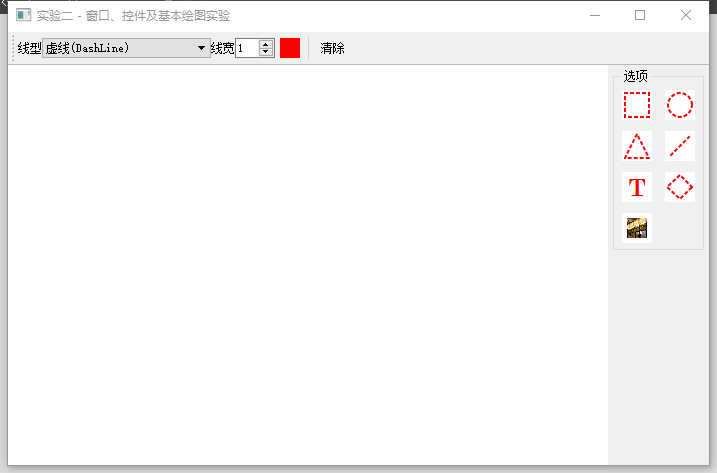
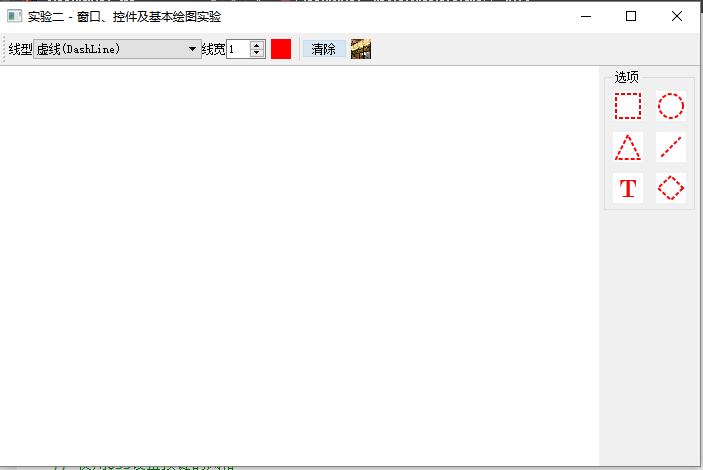
第四次提交，修改程序功能，使得绘制的图片可以显示在界面中央并且能够自适应窗口大小。

diff --git a/lab02/centerframe.cpp b/lab02/centerframe.cpp
@@ -6,7 +6,7 @@
 #include <QPushButton>
 #include <QPainter>
 #include <QPixmap>
-#include <QGridLayout>
+#include <QGridLayout>         //网格布局
 #include <QLineEdit>
 #include <QDebug>
 #include <QDialog>
@@ -107,7 +107,6 @@ void CenterFrame::createUserCommandArea()
     btnDiamond->setIconSize(p.size());
     p.fill(BACKGROUND_COLOR);
     //菱形的四个顶点
-    //p.fill(FOREGROUND_COLOR);
     QPointF pt4(p.size().width()/2,3);
     QPointF pt5(2,p.size().height()/2);
     QPointF pt6(p.size().width()/2,p.size().height()-3);
@@ -138,20 +137,6 @@ void CenterFrame::createUserCommandArea()
     connect(btnText,&QPushButton::clicked,
             this,&CenterFrame::on_btnTextClicked);
 
-    //图片按钮
-    p.fill (BACKGROUND_COLOR);
-    imgBtn=new QPushButton(group);
-    imgBtn->setToolTip("绘制图片");
-    imgBtn->setCheckable(true);
-    imgBtn->setIconSize(p.size());
-    QImage image(":/user");
-    QRect targetRect(0,0,p.size().width(),p.size().height());
-    QRect sourceRect=image.rect();
-    painter.drawImage(targetRect,image,sourceRect);
-
-    imgBtn->setIcon (QIcon(p));
-    connect(imgBtn,&QPushButton::clicked,this, &CenterFrame::on_btnchoseimageClicked);
-
     // 选项Group布局
     QGridLayout *gridLayout = new QGridLayout();
     gridLayout->addWidget(btnRect,0,0);
@@ -160,7 +145,6 @@ void CenterFrame::createUserCommandArea()
     gridLayout->addWidget(btnLine,1,1);
     gridLayout->addWidget(btnText,2,0);
     gridLayout->addWidget(btnDiamond,2,1);
-    gridLayout->addWidget(imgBtn,3,0);
     gridLayout->setMargin(3);
     gridLayout->setSpacing(3);
     group->setLayout(gridLayout);
@@ -236,7 +220,6 @@ void CenterFrame::updateButtonStatus()
     btnDiamond->setChecked(false);
     btnText->setChecked(false);
     edtText->setVisible(false);
-    imgBtn->setChecked(false);
 
     // 然后根据设置的绘图类型重新切换按键状态
     switch (drawWidget->shapeType()) {
@@ -260,19 +243,12 @@ void CenterFrame::updateButtonStatus()
         edtText->setVisible(true);      // 使编辑框可见
         edtText->setFocus();            // 编辑框获得输入焦点
         break;
-    case ST::picture:
-        imgBtn->setChecked(true);
-        break;
     default:
         break;
     }
 }
 
 
-//void CenterFrame::photoset()
-//{
-//   drawWidget->photo();
-//}
 
 void CenterFrame::setPenStyle(int penStyle)
 {
@@ -305,8 +281,6 @@ void CenterFrame::on_btnRectClicked()
     }
 
 }
-
-
 void CenterFrame::on_btnEllipseClicked()
 {
     if(btnEllipse->isChecked()){
@@ -326,8 +300,6 @@ void CenterFrame::on_btnLineClicked()
         drawWidget->setShapeType(ST::None);
     }
 }
-
-
 void CenterFrame::on_btnTriangleClicked()
 {
     if(btnTriangle->isChecked()){
@@ -337,7 +309,6 @@ void CenterFrame::on_btnTriangleClicked()
         drawWidget->setShapeType(ST::None);
     }
 }
-
 void CenterFrame::on_btnTextClicked()
 {
 
@@ -361,16 +332,7 @@ void CenterFrame::on_btnDiamondClicked()
     else
         drawWidget->setShapeType(ST::None);
 }
-void CenterFrame::on_btnchoseimageClicked()
+void CenterFrame::showimage()
  {
-      if(imgBtn->isChecked())
-          {
-              drawWidget->setShapeType(ST::picture);
-              drawWidget->choseimage();
-              updateButtonStatus();
-          }
-          else
-          {
-              drawWidget->setShapeType(ST::None);
-          }
+        drawWidget->choseimage();
  }

diff --git a/lab02/drawwidget.cpp b/lab02/drawwidget.cpp
@@ -15,6 +15,9 @@ DrawWidget::DrawWidget(QWidget *parent) : QWidget(parent)
     pix = new QPixmap(size());      //此QPixmap对象用来准备随时接受绘制的内容
     pix->fill (BACKGROUND_COLOR);          //填充背景色为白色
     setMinimumSize (600, 400);      //设置绘制区窗体的最小尺寸
+    pic=new QPixmap(size());
+    pic->fill(Qt::transparent);
+    pic->load(filename);
 
 }
 
@@ -22,6 +25,7 @@ DrawWidget::~DrawWidget()
 {
     // 注意：一定要删除pix指针
     delete pix;
+    delete pic;
 }
 
 void DrawWidget::setStyle (int s)
@@ -48,7 +52,6 @@ void DrawWidget::mousePressEvent (QMouseEvent *e)
         canDraw = true;
     }
 }
-
 void DrawWidget::mouseMoveEvent (QMouseEvent *e)
 {
 
@@ -71,8 +74,6 @@ void DrawWidget::mouseMoveEvent (QMouseEvent *e)
         }
     }
 }
-
-
 void DrawWidget::mouseReleaseEvent(QMouseEvent *e)
 {
     if (e->button() == Qt::LeftButton){
@@ -90,7 +91,11 @@ void DrawWidget::mouseReleaseEvent(QMouseEvent *e)
 void DrawWidget::paintEvent (QPaintEvent *)
 {
     QPainter painter(this);
-    painter.drawPixmap (QPoint(0, 0), *pix);
+    QRect imgrect=QRect(this->width()/4,this->height()/4,this->width()/2,this->height()/2);
+    QImage pic1=pix->toImage();
+    QImage pic2=pic->toImage();
+    painter.drawImage(0,0,pic1);
+    painter.drawImage(imgrect, pic2);
 }
 
 
@@ -119,26 +124,8 @@ void DrawWidget::clear ()
 //选择图片
 void DrawWidget::choseimage()
 {
-    QString filename =QFileDialog::getOpenFileName( this,tr("选择图片文件"), "/user","Images (*.png *.xpm *.jpg)");   //文件只显示.png .xpm .jpg格式
-       if(filename.isEmpty())
-               return;
-       else
-       {
-           QImage img;
-           if(!(img.load(filename))) //加载图像
-           {
-               QMessageBox::information(this, tr("打开图像失败"),tr("打开图像失败!"));
-               return;
-           }
-       }
-       pix->load(filename);
-       QPixmap *newP = new QPixmap(size());
-       newP->fill (BACKGROUND_COLOR);
-       QPainter p(newP);
-       p.drawPixmap (QPoint((width()-pix->width())/2,(height()-pix->width())/2), *pix);
-       delete pix;
-       pix = newP;
-       update();
+    filename=QFileDialog::getOpenFileName( this,tr("选择图片文件"), "/user","Images (*.png *.xpm *.jpg)");   //文件只显示.png .xpm .jpg格式
+    pic->load(filename);
 }
 
 void DrawWidget::setShapeType(ST::ShapeType type)
@@ -234,6 +221,7 @@ void DrawWidget::drawShape(const QPointF ptStart,const QPointF ptEnd,const ST::S
     // 抗锯齿必须在painter激活后，也就是绘制对象确定后设置
     painter.setRenderHint(QPainter::Antialiasing);
     painter.setPen (pen);
+    /**************************绘图工作*************************************/
     switch (drawType) {
     case ST::Rectangle:
         painter.drawRect(QRectF(ptStart,ptEnd));

diff --git a/lab02/mainwindow.cpp b/lab02/mainwindow.cpp
@@ -23,7 +23,7 @@ MainWindow::MainWindow(QWidget *parent)
      setWindowTitle(tr("实验二 - 窗口、控件及基本绘图实验 "));
      penStyleChangged(styleComboBox->currentData().toInt());      //初始化线型，设置控件中当前值作为初始值
      centerFrame->setPenWidth (widthSpinBox->value ());  //设置初始线宽
-      centerFrame->setPenColor (Qt::red); //设置初始颜色
+     centerFrame->setPenColor (FOREGROUND_COLOR); //设置初始颜色
 }
 
 MainWindow::~MainWindow()
@@ -50,6 +50,8 @@ void MainWindow::createToolBar ()
     styleComboBox->setCurrentIndex(1);
 
 
+    /******************************设置控件属性**********************************/
+
     // 线宽选择框
     widthLabel = new QLabel(tr("线宽"));
     widthSpinBox = new QSpinBox;
@@ -75,7 +77,21 @@ void MainWindow::createToolBar ()
     connect (clearBtn, &QToolButton::clicked, centerFrame, &CenterFrame::clearPaint);
 
 
-    // 向工具栏上添加各个控件
+    //图片选择框
+    pixmap.fill(BACKGROUND_COLOR);
+    QPainter painter(&pixmap);
+    QImage img(":/user");
+    QRect targetRect(0,0,20,20);
+    QRect sourceRect=img.rect();
+    painter.drawImage(targetRect,img,sourceRect);
+    imgBtn=new QToolButton;
+    imgBtn->setToolTip(tr("选择图片"));
+    imgBtn->setIcon(QIcon(pixmap));
+    connect(imgBtn,&QToolButton::clicked,centerFrame,&CenterFrame::showimage);
+
+
+
+    /*********************** 向工具栏上添加各个控件********************************/
     toolBar->addWidget (styleLabel);
     toolBar->addWidget (styleComboBox);
     toolBar->addWidget (widthLabel);
@@ -83,6 +99,7 @@ void MainWindow::createToolBar ()
     toolBar->addWidget (colorBtn);
     toolBar->addSeparator();
     toolBar->addWidget (clearBtn);
+    toolBar->addWidget(imgBtn);
  }
 
 void MainWindow::penStyleChangged (int index)

diff --git a/lab02/centerframe.h b/lab02/centerframe.h
@@ -11,22 +11,22 @@ class QGroupBox;
 class QPushButton;
 class QLineEdit;
 
-//绘图类
+//绘图框架类
 class CenterFrame : public QFrame
 {
     Q_OBJECT
 public:
-    explicit CenterFrame(QWidget *parent=0);
+    explicit CenterFrame(QWidget *parent=0);//创建用户中心窗口区
 
-    DrawWidget* insideWidget() const;
+    DrawWidget* insideWidget() const;//获取绘图区绘图对象的指针
 
 protected:
 
-    void createUserCommandArea();
+    void createUserCommandArea();//创建绘图框的用户命令区
 
-    void createUI();
+    void createUI();//创建用户界面
 
-    void updateButtonStatus();
+    void updateButtonStatus();//更新按键状态
 
 
 public slots:
@@ -34,18 +34,18 @@ public slots:
     void setPenWidth(int width=1);
     void setPenColor(QColor color);
     void clearPaint();
-   // void photoset();//图片
+    void showimage();//画图
 
 
+//按键响应槽函数
 protected slots:
     void on_btnRectClicked();
     void on_btnEllipseClicked();
     void on_btnLineClicked();
     void on_btnTriangleClicked();
-    void on_btnTextClicked();
-    void on_edtTextEdited(const QString &text);
+    void on_btnTextClicked();//绘制文本按键
+    void on_edtTextEdited(const QString &text);//输入文本
     void on_btnDiamondClicked();
-    void on_btnchoseimageClicked();
 
 
 private:
@@ -53,13 +53,13 @@ private:
     QHBoxLayout* hLayout;
     DrawWidget* drawWidget;
     QGroupBox* group;
+
     QPushButton* btnRect;
     QPushButton* btnEllipse;
     QPushButton* btnLine;
     QPushButton* btnTriangle;
     QPushButton* btnDiamond;
     QPushButton* btnText;
-    QPushButton* imgBtn;
     QLineEdit* edtText;
 
 

diff --git a/lab02/drawwidget.h b/lab02/drawwidget.h
@@ -15,12 +15,11 @@ public:
     explicit DrawWidget(QWidget *parent = 0);
     ~DrawWidget();
 
-    void setShapeType(ST::ShapeType type);
-    ST::ShapeType shapeType();
+    void setShapeType(ST::ShapeType type);//设置绘图类型
+    ST::ShapeType shapeType();//利用枚举变量，返回当前绘图类型
     void setDrawnText(QString text);
-    //void photoset();
 
-
+/*************************************事件**********************************/
 protected:
     void mousePressEvent (QMouseEvent *e);
     void mouseMoveEvent (QMouseEvent *e);
@@ -40,14 +39,16 @@ public slots:
     void choseimage();
 
 private :
-    QPixmap *pix;
-    QPoint startpos;
-    QPoint endpos;
-    bool canDraw;
+    QPixmap *pix;//画板指针，画图形
+    QPixmap *pic;//画板指针，画图片
+    QPoint startpos;//绘图起点
+    QPoint endpos;//绘图终点
+    bool canDraw;//绘图标志，true：绘制，false:不绘制
     int style;
     int weight;
     QColor color;
     ST::ShapeType drawType;
     QString drawnText;
+    QString filename;
 };
 #endif // DRAWWIDGET_H

diff --git a/lab02/mainwindow.h b/lab02/mainwindow.h
@@ -33,6 +33,7 @@ private:
     QSpinBox *widthSpinBox;         //画笔线宽spinbox
     QToolButton *colorBtn;          //颜色选择工具栏按键
     QToolButton *clearBtn;          //“清除”工具栏按键
+    QToolButton *imgBtn;            //画图片工具栏按键
 };
 #endif // MAINWINDOW_H
 

diff --git a/README.md b/README.md
@@ -15,8 +15,9 @@
 - 第三次提交：完成代码的完善扩充，补全函数定义。能够实现结果输出，但是输出的数据文件无法保存。 
 - 第四次提交：查阅资料以及相关博客，补全myMessageOutput函数，用以输出排序后的文件，将排序后的文件sort_data.txt存入文件夹。
 
-4.lab02.提交日期：2018.10.28，实现实验二要求的功能，共提交三次。
+4.lab02.提交日期：2018.11.9，实现实验二要求的功能，共提交四次。
 
 - 第一次提交，根据实验指导书给定代码，分析具体窗口实现过程，在原有代码基础上添加绘制菱形以及图片功能。
 - 第二次提交，第一次提交时遗漏了centerframe.cpp文件
 - 第三次提交，修改程序功能，使得最后绘制图片时能让用户能够自己在电脑文件中选择要插入的图片，更符合客户需求。
+- 第四次提交，修改程序功能，使得绘制的图片可以显示在界面中央并且能够自适应窗口大小。

diff --git a/lab02/README.md b/lab02/README.md
@@ -1,7 +1,9 @@
 # lab02
-提交日期：2018.10.28.实现第二次实验要求，共提交三次。
+提交日期：2018.11.9.实现第二次实验要求，共提交四次。
 
 
 - 第一次提交，根据实验指导书给定代码，分析具体窗口实现过程，在原有代码基础上添加绘制菱形以及图片功能。
 - 第二次提交，第一次提交时遗漏了centerframe.cpp文件
 - 第三次提交，修改程序功能，使得最后绘制图片时能让用户能够自己在电脑文件中选择要插入的图片，更符合客户需求。
+- 第四次提交，修改程序功能，使得绘制的图片可以显示在界面中央并且能够自适应窗口大小。
+
